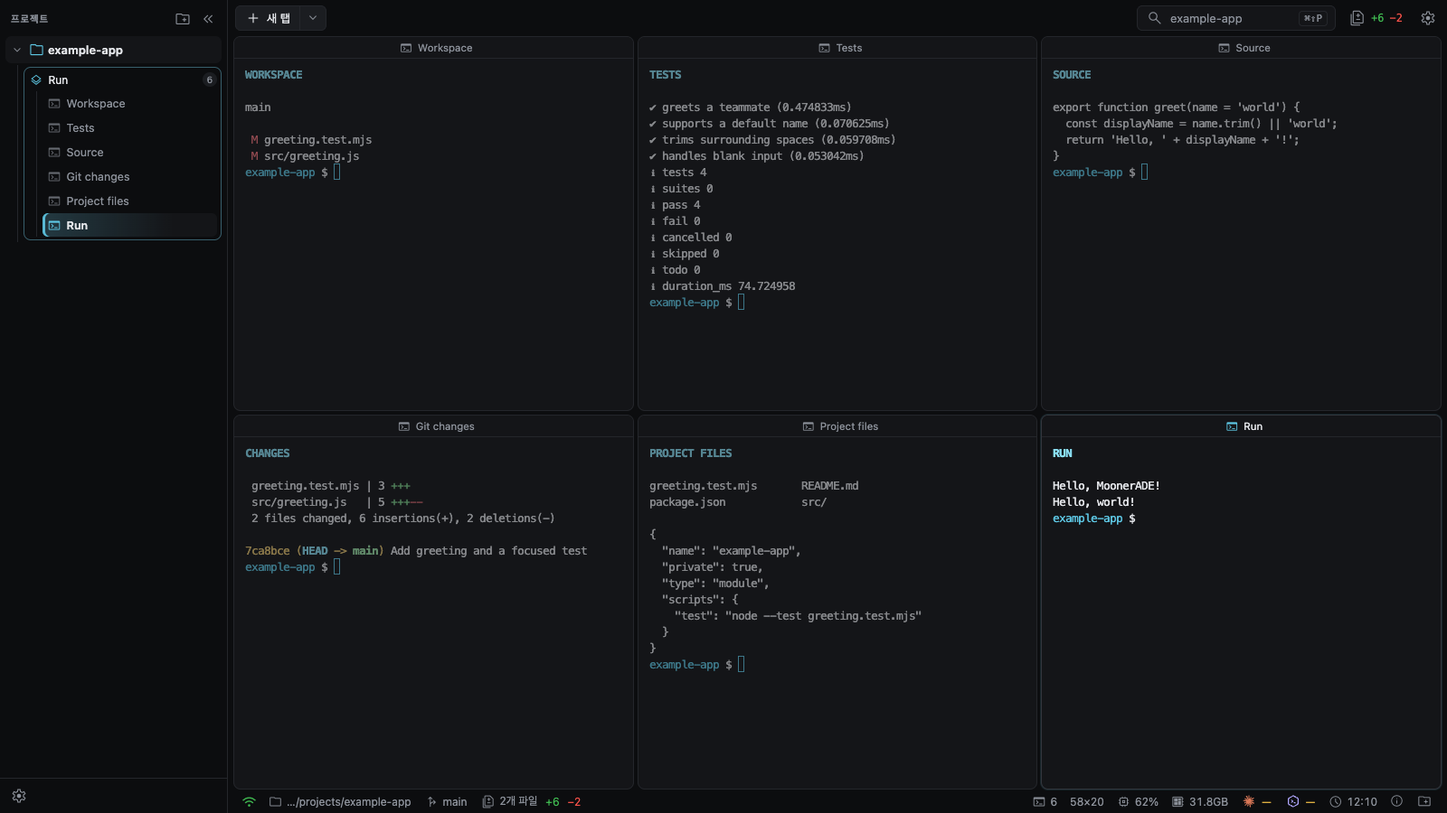
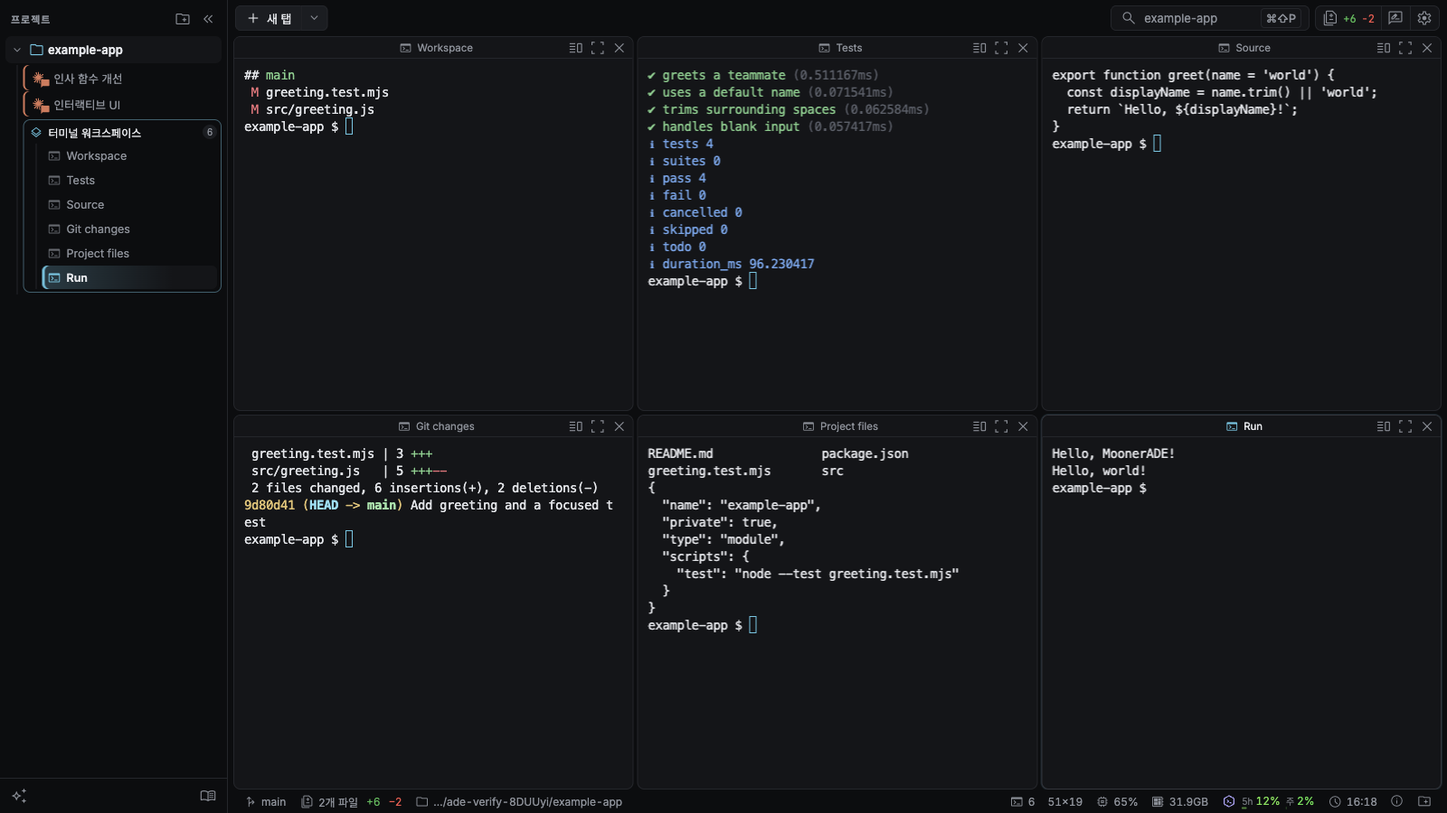
docs: README 최신화 및 화면 이미지 갱신

diff --git a/README.md b/README.md
@@ -1,225 +1,275 @@
-# MoonerADE (무너에이드)
+<p align="center">
+  <img src="apps/desktop/assets/icon.png" width="80" height="80" alt="MoonerADE 아이콘">
+</p>
 
-**Claude Code·Codex·Cursor Agent를 한 창에서 사용하는 개발 워크스페이스.**
+# MoonerADE · 무너에이드
 
-프로젝트마다 흩어져 있던 터미널을 한곳에 모으고, 여러 에이전트가 일하는 모습을 나란히 보면서 바뀐 코드를 바로 확인하세요. 평소 쓰던 CLI와 계정을 그대로 쓰는 macOS·Windows 데스크톱 앱입니다.
+**Claude Code · Codex · Cursor Agent를 한 창에서.**
 
-[설치](#설치) · [주요 기능](#주요-기능) · [사용법](#사용법) · [개발](#개발) · [문서](#문서) · [GPL v3](LICENSE)
+채팅과 터미널로 에이전트에게 일을 맡기고, 여러 프로젝트를 오가며 결과를 확인하는 macOS·Windows 개발 워크스페이스입니다. 컴퓨터에 설치된 공식 CLI와 계정을 그대로 사용합니다.
 
-![MoonerADE의 프로젝트 사이드바와 2 × 3 분할 터미널](docs/images/terminal-workspace.png)
+[설치](#설치) · [사용법](#사용법) · [주요 기능](#주요-기능) · [개발](#개발) · [문서](#문서) · [릴리스](https://github.com/Mooner510/mooner-ade/releases)
 
-*예제 프로젝트를 연 실제 앱 화면입니다. 터미널 출력은 데모 코드와 테스트를 실행한 결과입니다.*
+![프로젝트 사이드바와 채팅에서 에이전트의 작업 과정·결과를 확인하는 MoonerADE](docs/images/chat-workspace.png)
+
+*현재 소스로 촬영한 예제 화면입니다. 대화·사용량·카드 수치는 시연용이며, 터미널 출력은 예제를 실제 실행한 결과입니다.*
 
 ## 설치
 
-명령 한 줄이면 최신 버전을 받아 설치하고 바로 실행합니다. 같은 명령을 다시 실행하면 재설치되고, 그 뒤 업데이트는 앱이 알아서 합니다. 관리자 권한은 필요 없습니다.
+**macOS Apple Silicon**과 **Windows x64**용 앱을 제공합니다. 아래 명령은 최신 릴리스를 설치하고 앱을 실행합니다. 관리자 권한은 필요하지 않습니다.
 
-### macOS (Apple Silicon)
+### macOS
 
-**터미널** 앱을 열고 아래 줄을 붙여 넣으세요.
+터미널에서 실행하세요.
 
 ```sh
 curl -fsSL https://raw.githubusercontent.com/Mooner510/mooner-ade/master/scripts/install-mac.sh | sh
 ```
 
-`/Applications`(쓸 수 없으면 `~/Applications`)에 설치됩니다. 이 방법으로 받으면 "확인되지 않은 개발자" 경고 없이 바로 열립니다.
+설치 위치는 `/Applications/MoonerADE.app`이며, 해당 폴더에 쓸 수 없으면 `~/Applications`를 사용합니다.
 
-### Windows (x64)
+### Windows
 
-시작 메뉴에서 **PowerShell**을 열고 아래 줄을 붙여 넣으세요.
+PowerShell에서 실행하세요.
 
 ```powershell
 irm https://raw.githubusercontent.com/Mooner510/mooner-ade/master/scripts/install-windows.ps1 | iex
 ```
 
-`%LOCALAPPDATA%\Programs\MoonerADE`에 설치되고 시작 메뉴와 바탕 화면에 바로 가기가 생깁니다. SmartScreen 경고도 뜨지 않습니다.
+`%LOCALAPPDATA%\Programs\MoonerADE`에 설치하고 시작 메뉴·바탕 화면에 바로 가기를 만듭니다.
+
+> 설치 명령을 다시 실행하면 기존 앱을 종료하고 교체합니다. 설치 후에는 앱 안의 자동 업데이트를 사용하세요. Intel Mac 등 다른 환경은 [소스에서 실행](#소스에서-실행)을 참고하세요.
+
+### 에이전트 준비
+
+[Git](https://git-scm.com/downloads)과 사용할 에이전트의 공식 CLI를 설치한 뒤 로그인하세요. 에이전트는 하나만 준비해도 됩니다.
+
+| 에이전트 | 설치 안내 | 로그인 명령 |
+|---|---|---|
+| Claude Code | [공식 안내](https://docs.anthropic.com/claude-code) | `claude auth login` |
+| Codex | [공식 안내](https://github.com/openai/codex) | `codex login` |
+| Cursor Agent | [공식 안내](https://cursor.com/docs/cli/overview) | `cursor-agent login` |
+
+채팅은 **설정 → AI 툴 → 각 에이전트 → 채팅 인증**에서 API 키를 사용할 수도 있습니다. 이 설정은 채팅에만 적용되며, 터미널과 상태바 사용량 조회는 CLI 로그인을 사용합니다. 모델 이용 권한과 비용은 각 제공자의 계정·플랜을 따릅니다.
 
 <details>
-<summary>NVIDIA 그래픽카드에서 화면이 뚝뚝 끊길 때 (RTX HDR)</summary>
+<summary>설치 참고 · Windows 화면 끊김 · 삭제</summary>
 
-NVIDIA App의 **RTX HDR**을 켜 두면, NVIDIA 드라이버가 MoonerADE를 게임으로 보고 화면을 그릴 때마다 끼어듭니다. 그러면 애니메이션과 마우스 반응이 초당 20프레임으로 끊기고 CPU를 계속 씁니다. Chrome·Edge·Slack은 NVIDIA가 미리 넣어 둔 프로필로 RTX HDR에서 빠져 있어 같은 PC에서도 멀쩡합니다.
+- **macOS 서명:** 배포 앱은 Apple 공증 없이 ad-hoc 서명됩니다. 설치 스크립트는 앱의 격리 속성을 제거합니다.
+- **Windows ARM:** 제공하는 x64 앱은 Windows의 x64 에뮬레이션을 사용합니다.
+- **NVIDIA RTX HDR:** NVIDIA App의 RTX HDR이 앱에 적용되면 화면이 끊길 수 있습니다. 앱이 감지해 제안하는 **해결**을 누르면 관리자 권한 확인 후 MoonerADE에만 RTX HDR을 끄는 프로필을 추가합니다. 직접 설정하려면 NVIDIA App → 그래픽 → 프로그램 설정에서 MoonerADE의 RTX HDR을 끄세요.
 
-앱은 시작할 때 이 상태를 알아채고 **해결**을 권합니다. 누르면 관리자 권한을 한 번 확인한 뒤, NVIDIA 드라이버에 MoonerADE 전용 설정(RTX HDR 끔) 하나만 추가합니다. 다른 게임과 앱의 RTX HDR은 그대로입니다. 직접 하려면 NVIDIA App › 그래픽 › 프로그램 설정에서 MoonerADE를 추가하고 RTX HDR을 끄세요.
-
-되돌리려면 관리자 PowerShell에서 아래를 실행합니다.
+RTX HDR 프로필을 되돌리려면 관리자 PowerShell에서 실행합니다.
 
 ```powershell
 & "$env:LOCALAPPDATA\Programs\MoonerADE\resources\app\apps\desktop\src\nvidia-profile.ps1" -Exe moonerade.exe -ProfileName MoonerADE -Undo -Result "$env:TEMP\ade-nvidia.txt"
 ```
 
-</details>
+**앱 삭제:** 앱과 백그라운드 작업을 종료한 뒤 macOS는 설치된 `MoonerADE.app`을, Windows는 설치 폴더와 바로 가기를 지우세요. 설정·기록까지 삭제하려면 다음 폴더도 지웁니다. 실제 프로젝트와 CLI 자체 설정은 별도입니다.
 
-### 설치 후 할 일
-
-MoonerADE는 에이전트를 직접 품지 않고, 컴퓨터에 설치된 공식 CLI를 실행합니다. 쓰려는 도구를 설치하고 한 번 로그인해 두세요.
-
-| 준비물 | 설치 | 로그인 |
+| OS | 앱 데이터 | Electron 프로필 |
 |---|---|---|
-| [Git](https://git-scm.com/downloads) | 필수 | — |
-| [Claude Code](https://docs.anthropic.com/claude-code) | 선택 | `claude auth login` |
-| [Codex](https://github.com/openai/codex) | 선택 | `codex login` |
-| [Cursor Agent](https://cursor.com/docs/cli/overview) | 선택 | `cursor-agent login` |
-
-그다음 앱에서 **프로젝트 열기**로 작업 폴더를 고르면 끝입니다. 새 탭 메뉴에서 세 에이전트의 터미널 또는 채팅을 선택할 수 있습니다. 채팅은 공식 CLI의 로그인과 세션을 사용하며, CLI가 지원하지 않는 기능은 제한 이유를 표시합니다. 자세한 범위는 [채팅 검증 안내](docs/VERIFICATION.md#2026-11-10-codexcursor-채팅-확장)를 참고하세요.
-
-<details>
-<summary>삭제하기</summary>
-
-- **macOS:** 앱을 종료하고 `/Applications/MoonerADE.app`을 휴지통으로 옮깁니다. 설정까지 지우려면 `~/Library/Application Support/mooner-ade`와 `~/Library/Application Support/@mooner/ade-desktop`도 지웁니다.
-- **Windows:** 앱을 종료하고 `%LOCALAPPDATA%\Programs\MoonerADE` 폴더와 시작 메뉴·바탕 화면의 `MoonerADE` 바로 가기를 지웁니다. 설정까지 지우려면 `%LOCALAPPDATA%\mooner-ade`와 `%APPDATA%\@mooner\ade-desktop`도 지웁니다.
+| macOS | `~/Library/Application Support/mooner-ade` | `~/Library/Application Support/@mooner/ade-desktop` |
+| Windows | `%LOCALAPPDATA%\mooner-ade` | `%APPDATA%\@mooner\ade-desktop` |
 
 </details>
-
-<details>
-<summary>Intel Mac, Windows ARM 등 다른 환경</summary>
-
-릴리스는 Apple Silicon Mac과 Windows x64용만 만듭니다. Windows ARM은 x64 앱이 에뮬레이션으로 실행됩니다. 그 밖의 환경은 아래 [소스에서 실행](#소스에서-실행)을 따르세요.
-
-</details>
-
-## 주요 기능
-
-| 기능 | 할 수 있는 일 |
-|---|---|
-| **여러 프로젝트, 한 창** | 프로젝트마다 탭과 터미널을 그대로 둔 채 오가며 작업 |
-| **자유로운 터미널 분할** | 좌우·상하 분할, 크기 조절, 최대화, 2 × 3 그리드 한 번에 만들기 |
-| **Claude Code · Codex** | 공식 CLI를 실행하고 질문·승인·완료 상태를 한눈에 확인 |
-| **다음 요청 예약** | Claude가 일하는 동안 다음 요청을 적어 두면 끝나자마자 전송 |
-| **Chat 탭** | Claude Code·Codex·Cursor Agent를 터미널 대신 채팅 화면으로 사용. 질문 카드, 계획 검토, 서브에이전트 카드, 이미지 첨부, `@` 파일 언급, 이전 대화 불러오기. 지원 범위는 CLI마다 다름 ([채팅 기능 정리](CHAT_MODE_FEATURES.md)) |
-| **인터랙티브 UI** | 채팅에서 에이전트가 답변 안에 차트·상태 카드·입력 폼과 샌드박스 미리보기를 그림 (설정 → AI 툴 → Claude Code, 기본 켜짐) |
-| **플러그인** | 승인한 플러그인으로 터미널 명령·에이전트 도구·작업공간을 더함. 앱에 든 에이전트 버스는 채팅 에이전트끼리 메시지를 주고받음 ([플러그인](docs/PLUGINS.md), [에이전트 버스](docs/AGENT_BUS.md)) |
-| **피드백 요청** | 앱 화면을 캡쳐하고 글로 정리해 개선 요청을 보냄. AI·에이전트가 쓴 초안은 사람이 열어 검토한 뒤에만 제출 |
-| **변경사항 Diff** | 바뀐 파일과 추가·삭제 줄 수, 코드 비교를 터미널 옆에서 확인 |
-| **작업 환경 유지** | 화면 배치 복원, 테마·글꼴·알림·단축키 설정 |
-| **저장소별 worktree** | 여러 저장소가 담긴 폴더에서 저장소마다 작업 경로를 나누고 fast-forward로 합치기 |
-| **WakaTime 기록** | 앱 사용 시간과 에이전트 작업 시간을 WakaTime에 기록 (설정 → WakaTime) |
-| **자동 업데이트** | 새 버전을 받아 다시 시작해도 실행 중인 터미널과 에이전트 작업은 그대로 유지 |
-
-### 터미널 옆에서 바로 보는 Diff
-
-터미널을 그대로 둔 채 Diff 패널을 열어 파일별 변경을 확인합니다. 크게 보고 싶으면 Diff 탭으로 펼치면 됩니다. 커밋은 터미널이나 에이전트에게 맡깁니다.
-
-![터미널의 테스트 결과와 Git 변경사항 Diff를 함께 확인하는 MoonerADE](docs/images/git-diff.png)
 
 ## 사용법
 
-1. **프로젝트를 엽니다.** 사이드바에서 프로젝트를 추가하고 작업할 탭을 고릅니다.
-2. **터미널을 띄웁니다.** 새 탭 메뉴에서 셸·Claude Code·Codex를 고르거나 직접 명령을 입력합니다. 분할 버튼이나 명령 팔레트로 원하는 배치를 만듭니다.
-3. **결과를 확인합니다.** 질문이나 승인을 기다리는 터미널로 이동하고, 오른쪽 Diff 패널에서 바뀐 코드를 검토합니다.
+1. **프로젝트 열기:** 사이드바에서 작업 폴더를 추가합니다. 첫 실행의 둘러보기에서 기본 조작을 연습할 수 있습니다.
+2. **에이전트 시작:** 새 탭에서 **Chat** 또는 **CLI** 모드와 에이전트를 고릅니다. 일반 터미널도 열 수 있습니다.
+3. **작업 확인:** 채팅의 도구·질문·승인 카드를 확인하거나, 여러 칸으로 분할해 에이전트와 로그를 나란히 봅니다. 바뀐 코드는 상단 **변경사항 Diff**에서 검토합니다.
 
-열어 둔 프로젝트와 배치는 자동으로 저장됩니다. 창을 새로고침하면 실행 중이던 터미널에 다시 붙고, 앱을 완전히 껐다 켜면 저장된 배치에 새 셸을 엽니다.
+프로젝트 목록·탭·화면 배치는 자동 저장됩니다. 둘러보기는 사이드바 아래 책 버튼으로 다시 열 수 있습니다.
 
 ### 자주 쓰는 단축키
 
-`mod`는 macOS에서 ⌘, Windows에서 Ctrl입니다. 그 밖의 Ctrl 조합은 터미널 안의 셸과 CLI로 그대로 전달됩니다.
+`mod`는 macOS의 ⌘, Windows의 Ctrl입니다. 설정에서 단축키를 바꿀 수 있습니다.
 
 | 단축키 | 동작 |
 |---|---|
 | `mod+Alt+O` | 프로젝트 열기 |
-| `mod+Shift+T` / `Alt+T` | 새 터미널 탭 |
-| `mod+Shift+N` | 새 탭에서 실행할 CLI 고르기 |
-| `mod+Shift+P` / `F1` | 명령 팔레트 (분할, 2 × 3 그리드 등) |
-| `mod+Shift+Enter` | pane 최대화 켜기/끄기 |
+| `mod+Shift+T` | 새 탭 |
+| `mod+Shift+N` | 새 탭에서 실행할 도구 고르기 |
+| `mod+Shift+P` / `F1` | 명령 팔레트 |
+| `Ctrl+D` / `Ctrl+Shift+D` | 터미널 좌우 / 상하 분할 |
+| `mod+Shift+Enter` | 현재 칸 최대화 / 복원 |
 | `mod+Shift+G` | 변경사항 Diff 패널 |
-| `mod+Alt+F` | 피드백 요청 패널 |
-| `mod+Alt+Shift+F` | 피드백용 화면 캡쳐 |
 | `mod+,` | 설정 |
 
-전체 단축키와 데이터 복구 방법은 [사용 안내](docs/LOCAL_IDE.md)에 있습니다.
+전체 단축키와 세션 복구 방법은 [사용 안내](docs/LOCAL_IDE.md)를 참고하세요.
 
-### Claude가 일하는 동안 다음 요청 예약하기
+## 주요 기능
 
-Claude가 작업 중일 때 Claude Code 입력란에 다음 요청을 평소처럼 쓰고 **Tab**을 누르면 예약됩니다(입력란은 비워집니다). 지금 작업이 끝나면 터미널마다 순서대로 자동 전송하고, 목록에서 수정(연필)·취소(X)할 수 있습니다. 작업 중이 아닐 때나 `/`·`@`로 시작하는 입력에서는 Tab이 평소대로 Claude에 전달되고, Codex와 일반 셸의 Tab도 그대로입니다. **Claude Code 2.1.303 이상**에서, ADE에서 새로 연 터미널부터 동작합니다.
+### 에이전트의 작업을 읽기 쉬운 채팅으로
+
+명령 실행과 파일 변경을 접을 수 있는 카드로 보여 주고, 질문·승인·계획 검토는 화면에서 답할 수 있습니다. 서브에이전트의 작업과 모델·Effort도 확인할 수 있습니다. 이미지 붙여넣기와 파일 끌어놓기, `@` 파일 언급, `/resume`으로 이전 대화 불러오기도 지원합니다.
+
+입력창에서 권한 모드·모델·Effort를 고르고, 상태 줄에서 컨텍스트·토큰·비용을 확인하세요. **새 채팅은 프로젝트에서 마지막으로 고른 설정을 이어받습니다.** 제공되는 항목은 에이전트와 CLI 버전에 따라 다릅니다.
 
 <details>
-<summary>완료 감지, 호환 조건과 예약 유지 범위</summary>
+<summary>에이전트별 채팅 지원 범위</summary>
 
-자동 전송은 Claude의 OSC 7501(없으면 OSC 9;4) 작업 상태 신호와 빈 입력란을 함께 확인하고, 서버에서 Claude 프로세스와 화면 출력 순번을 다시 검증한다. 질문·승인 화면이나 작성 중인 입력이 있으면 기다린다. 구버전, `terminalProgressBarEnabled`가 꺼진 세션, SSH 세션, 신호가 전달되지 않는 tmux 환경에서는 동작하지 않는다. (SSH 원격 tmux의 작업 중·완료 표시는 [docs/LOCAL_IDE.md](docs/LOCAL_IDE.md)의 tmux 설정 참고) 기존 터미널에는 새 환경 설정이 적용되지 않으므로 새 터미널을 열어야 한다.
+| 기능 | Claude Code | Codex | Cursor Agent |
+|---|---|---|---|
+| 채팅·이미지·파일 첨부 | 지원 | 지원 | 지원 |
+| 응답 중 추가 지시 | 지원 | 지원 | 응답 후 대기열 전송 |
+| 과거 대화에서 분기·되돌리기 | 지원 | 지원 | 미지원 |
+| 토큰 / 비용 표시 | 지원 / 지원 | 지원 / 미제공 | 미제공 / 미제공 |
+| 프롬프트 캐시 타이머·`/stats` | 지원 | 미지원 | 미지원 |
+| 채팅 → 터미널 전환 | 지원 | 지원 | 지원 |
+| 터미널 → 채팅 전환 | 유휴 로컬 세션에서 지원 | 미지원 | 미지원 |
 
-예약은 일시정지하지 않는다. 중단(Esc/Ctrl+C)이나 오류로 작업이 끝나도, 재접속 후 Claude가 이미 idle이어도 다음 예약을 보낸다. 서버가 전송을 거절하면 다음 갱신 때 다시 시도한다. 예약은 메모리에만 보관하므로 앱 새로고침·종료·pane 재생성 시 사라진다. 텍스트만 지원하며 이미지 첨부는 예약하지 않는다.
+이미지 입력·세션 복원 등은 CLI와 모델이 지원하는 범위에서 동작합니다. 사용할 수 없는 기능은 화면에서 이유를 안내합니다. 자세한 동작은 [채팅 기능 정리](CHAT_MODE_FEATURES.md), 확인한 범위는 [검증 상태](docs/VERIFICATION.md)를 참고하세요.
 
 </details>
 
-### 자동 업데이트
+### 답변 안에서 선택하고 조작하는 인터랙티브 UI
 
-설치한 앱은 시작 5초 뒤와 10분마다 새 버전을 확인합니다. 새 버전이 있으면 받아서 교체한 뒤 다시 시작하는데, **그동안 터미널은 꺼지지 않습니다.** 앱이 다시 뜨면 열려 있던 터미널에 다시 붙어 그사이 출력까지 보여 주므로, 에이전트가 일하는 중에도 걱정 없이 업데이트됩니다.
+에이전트가 답변에 상태 카드·차트·입력 폼을 넣고, 계산기나 미리보기를 보여 줄 수 있습니다. 폼에서 고른 내용을 다음 요청으로 보내거나 입력창에 채웁니다. 미리보기 코드는 격리된 샌드박스에서 실행됩니다.
+
+![채팅 답변 안의 상태 카드와 다음 작업 선택 폼](docs/images/interactive-ui.png)
+
+**설정 → AI 툴 → Claude Code → 인터랙티브 UI**에서 켜고 끌 수 있습니다. 기본으로 켜져 있으며, 변경은 새 채팅부터 적용됩니다.
+
+### 여러 프로젝트와 터미널을 한 화면에
+
+프로젝트마다 탭과 배치를 유지하고, 좌우·상하 분할과 크기 조절·최대화를 지원합니다. 명령 팔레트에서 **2 × 3 그리드**도 한 번에 만들 수 있습니다. 에이전트의 질문·승인·완료 상태는 사이드바와 알림으로 확인합니다.
+
+![현재 UI에서 테스트·소스·Git 상태·실행 결과를 나란히 보는 2 × 3 터미널](docs/images/terminal-workspace.png)
+
+### 바뀐 코드를 바로 검토
+
+오른쪽 Diff 패널에서 변경 파일과 추가·삭제 줄을 확인하고, 큰 화면에서 통합 또는 좌우 비교로 펼쳐 볼 수 있습니다. 여러 저장소가 있는 프로젝트는 비교할 저장소를 선택합니다.
 
 <details>
-<summary>자세한 동작</summary>
+<summary>채팅과 Diff를 함께 보는 화면</summary>
 
-- 새 버전이 없으면 작은 API 호출 한 번으로 끝나고 디스크에는 아무것도 쓰지 않습니다. 코드만 바뀐 릴리스는 그 부분(약 8MB)만 받습니다.
-- 앱이 5분 안에 다시 뜨지 않으면 남은 터미널을 정리합니다. 앱을 직접 종료하면 터미널도 함께 종료됩니다.
-- 버튼은 "종료할 때 업데이트", "지금 업데이트", "나중에"입니다. 종료할 때는 지금 받아 두고 다음에 앱을 끌 때 설치합니다. 지금 업데이트는 진행 중인 작업을 보여 주고, 중단해도 괜찮으면 바로 설치합니다. "나중에"를 고른 버전은 앱을 다시 켤 때까지 묻지 않습니다.
-- 설정에서 업데이트를 직접 확인하거나, 받아 둔 업데이트를 지금 재시작·취소할 수 있습니다.
-- 소스에서 실행한 앱(`pnpm dev`, `pnpm start`)은 자동 업데이트하지 않습니다.
-- macOS 앱은 Apple 공증 없이 ad-hoc 서명되어 있고, 스스로 업데이트하려면 쓰기 가능한 폴더(예: `/Applications`)에 있어야 합니다.
+![채팅 결과 옆 Diff 패널에서 greeting.js의 변경을 검토하는 화면](docs/images/git-diff.png)
+
+</details>
+
+Diff는 **읽기 전용**입니다. 파일 편집·검색·스테이징·커밋은 터미널이나 에이전트를 사용하세요. 저장소별 worktree를 켜면 작업 경로를 나눌 수 있으며, 원본으로 통합할 때는 커밋 후 fast-forward만 지원합니다.
+
+### 작업을 이어 가는 도구
+
+| 기능 | 사용 방법 |
+|---|---|
+| **사용량·캐시** | 상태바에서 제공자별 사용 한도를 확인하고, Claude 채팅·터미널에서 프롬프트 캐시 타이머 확인 |
+| **세션 통계** | Claude 채팅의 `/stats`에서 컨텍스트 변화·턴 시작점·턴별 비용 추정치 확인 |
+| **플러그인·에이전트 버스** | 승인한 플러그인으로 도구를 추가하고, 내장 버스로 ADE의 채팅 에이전트끼리 메시지 교환 |
+| **피드백 요청** | `mod+Alt+F`로 열어 화면 캡처·주석과 함께 개선 요청 작성. AI 초안도 사람이 검토한 뒤 제출 |
+| **WakaTime** | 설정 → WakaTime에서 앱 사용 시간·에이전트 작업 시간 기록 |
+| **화면 맞춤** | 테마·강조 색·글꼴·상태바·알림 설정 |
+| **변경 내역** | 사이드바 아래 변경 내역에서 버전별 새 기능·수정 사항 확인 |
+
+### Claude가 일하는 동안 다음 요청 예약하기
+
+**터미널의 Claude Code가 작업 중일 때** 다음 요청을 입력하고 **Tab**을 누르세요. 입력을 비워 예약 목록에 넣고, 현재 작업이 끝나면 순서대로 보냅니다. 목록에서 수정·취소할 수 있습니다.
+
+Claude Code **2.1.303 이상**과 ADE에서 새로 연 터미널이 필요합니다. 작업 중이 아니거나 `/`·`@`로 시작하는 입력, Codex와 일반 셸의 Tab은 평소대로 동작합니다.
+
+<details>
+<summary>예약의 완료 감지·호환 조건·유지 범위</summary>
+
+- Claude의 OSC 7501(없으면 OSC 9;4) 상태 신호와 빈 입력란을 확인하고, 서버에서 Claude 프로세스·화면 출력 순번을 다시 검증합니다. 질문·승인 화면이나 작성 중인 입력이 있으면 기다립니다.
+- 구버전, `terminalProgressBarEnabled`가 꺼진 세션, SSH 세션, 신호가 전달되지 않는 tmux 환경에서는 동작하지 않습니다. 기존 터미널에는 새 환경 설정이 적용되지 않으므로 새 터미널을 열어야 합니다. 원격 tmux의 상태 표시는 [사용 안내](docs/LOCAL_IDE.md)를 참고하세요.
+- **Esc·Ctrl+C 중단이나 오류도 현재 작업의 종료로 봅니다.** 재연결 후 이미 유휴 상태여도 다음 예약을 보내며, 전송을 거절당하면 다음 갱신 때 다시 시도합니다. 예약을 멈추려면 목록에서 취소하세요.
+- 예약은 **텍스트만, 메모리에만** 보관합니다. 이미지 첨부는 예약하지 않으며, 앱 새로고침·종료·칸 재생성 시 사라집니다.
+
+</details>
+
+### 자동 업데이트와 백그라운드 실행
+
+설치한 앱은 시작 5초 뒤와 10분마다 업데이트를 확인합니다. 새 버전에서 **종료할 때 업데이트**, **지금 업데이트**, **나중에** 중 선택할 수 있고, 설정에서도 직접 확인할 수 있습니다.
+
+업데이트 재시작 동안 터미널·채팅 작업을 유지하고 새 창에 다시 연결합니다. 앱을 닫을 때는 **백그라운드로 남기기**를 선택해 작업을 이어 가거나, **종료**로 함께 끝낼 수 있습니다.
+
+<details>
+<summary>복원 조건과 예외</summary>
+
+- 업데이트 중 유지되는 프로세스는 별도 PTY 호스트가 관리합니다. 앱이 5분 안에 다시 뜨지 않으면 정리합니다. 백그라운드 유지는 다음 실행까지 계속됩니다.
+- 호스트를 시작하지 못했거나 이전 호스트가 채팅 유지 기능을 지원하지 않으면 작업이 끊길 수 있습니다. 앱은 실제 유지 가능 범위를 확인해 종료·업데이트 대화상자에서 안내합니다.
+- 일반 새로고침은 실행 중인 터미널에 다시 연결합니다. 프로세스까지 종료했다면 저장된 배치에 새 셸을 열고, 추적한 Claude·Codex 세션을 복구합니다. 채팅 기록은 다시 열어 이어 갈 수 있습니다.
+- 소스 실행(`pnpm start`, `pnpm dev`)은 자동 업데이트하지 않습니다. 설치 앱은 자신을 교체할 수 있는 쓰기 가능한 폴더에 있어야 합니다.
 
 </details>
 
 ## 로컬 실행과 데이터
 
-MoonerADE는 내 컴퓨터 한 대에서, 나 혼자 쓰는 것을 전제로 동작합니다. 공식 CLI의 계정과 권한 설정을 그대로 쓰고, 터미널은 앱을 실행한 사용자의 셸 권한을 가집니다. 모델을 쓰려면 해당 제공자의 이용 권한이 필요합니다.
+MoonerADE는 **내 컴퓨터에서 혼자 사용하는 로컬 앱**입니다. 모델 호출·로그인·도구 실행은 공식 CLI가 맡고, 터미널은 앱을 실행한 사용자의 셸 권한으로 동작합니다. 프로젝트 폴더를 여는 것이 에이전트의 파일 접근을 격리하지는 않습니다.
 
-프로젝트 목록·배치·설정과 터미널별 에이전트 세션 기록은 OS별 앱 데이터 폴더에 저장됩니다. 경로는 [환경 변수](ENVIRONMENT_VARIABLES.md), 접속 토큰과 데이터 취급은 [보안 경계](docs/SECURITY_REVIEW.md)에 정리되어 있습니다.
+프로젝트 목록·배치·설정·채팅 기록은 앱 데이터 폴더에 저장됩니다. 데이터 경로와 재정의 방법은 [환경 변수](ENVIRONMENT_VARIABLES.md), 인증·권한의 범위는 [보안 경계](docs/SECURITY_REVIEW.md)를 참고하세요.
 
 ## 개발
 
 ### 소스에서 실행
 
-[Node.js](https://nodejs.org/) **24.21.0 이상**, pnpm **11.27.1**(`corepack enable`로 켜짐), Git이 필요합니다. `node-pty`를 빌드하느라 OS의 네이티브 빌드 도구(macOS는 Xcode Command Line Tools, Windows는 Visual Studio Build Tools)가 필요할 수 있습니다.
+Node.js **24.21.0 이상**, pnpm **11.27.1**, Git이 필요합니다. `node-pty` 빌드를 위해 macOS의 Xcode Command Line Tools 또는 Windows의 Visual Studio Build Tools가 필요할 수 있습니다.
 
 ```sh
 git clone https://github.com/Mooner510/mooner-ade.git
 cd mooner-ade
 pnpm install --frozen-lockfile
-pnpm start   # 웹 UI를 빌드하고 앱 실행
-pnpm dev     # 개발 모드: 웹 HMR + 서버 변경 시 재시작
+pnpm start
 ```
 
-개발 모드에서도 서버가 바뀌는 동안 PTY 호스트가 터미널을 붙잡고 있습니다. Electron 메인 코드와 PTY 호스트를 고쳤다면 앱을 직접 다시 시작하세요.
+개발 모드는 `pnpm dev`로 실행합니다. 웹 HMR과 서버 자동 재시작을 지원하며, 서버가 바뀌는 동안 터미널은 별도 PTY 호스트가 유지합니다. Electron 메인 코드나 PTY 호스트를 고쳤다면 앱을 직접 다시 시작하세요.
 
 <details>
 <summary>검사 명령과 프로젝트 구조</summary>
 
 ```sh
-pnpm typecheck    # 웹 타입 검사
-pnpm check        # 웹 타입 검사 + Node 테스트
-pnpm e2e          # 빌드 없이 Vite 개발 서버로 띄운 서버와 실제 Chrome/PTY로 UI 검증, 모델 호출 없음
-pnpm audit        # lockfile 의존성 보안 검사
+pnpm typecheck   # 웹 타입 검사
+pnpm test        # Node 테스트
+pnpm check       # 웹 타입 검사 + Node 테스트
+pnpm e2e         # Vite 개발 서버 + 실제 Chrome/PTY 검증, 모델 호출 없음
+pnpm audit       # lockfile 의존성 보안 검사
 ```
 
 | 경로 | 역할 |
 |---|---|
-| `apps/desktop` | Electron 셸과 로컬 서버 실행 |
-| `apps/web` | React UI, 터미널, 읽기 전용 Monaco Diff |
-| `apps/local-server` | 루프백 HTTP/WebSocket, 프로젝트·Git·PTY·세션 복구 API |
+| `apps/desktop` | Electron 셸·업데이트·로컬 서버 실행 |
+| `apps/web` | React UI·터미널·채팅·읽기 전용 Monaco Diff |
+| `apps/local-server` | 로컬 HTTP/WebSocket·프로젝트·Git·PTY·채팅 API |
+| `scripts/verify` | 격리된 UI·에이전트 검증 도구 |
 
-자세한 구조는 [아키텍처](docs/ARCHITECTURE.md)를 참고하세요. 기여는 `feature/*` → `master` PR과 `.github/workflows/ci.yml`의 재사용 CI를 따릅니다. OS별 검증 범위는 [검증 상태](docs/VERIFICATION.md)에 있습니다.
+기여는 `feature/*` → `master` PR을 사용합니다. **CI/CD workflow 파일은 인프라팀이 관리합니다.** 테스트 절차는 [테스트 실행 안내](docs/TESTING_GUIDE.md), OS별 확인 범위는 [검증 상태](docs/VERIFICATION.md)를 참고하세요.
 
 </details>
 
 <details>
 <summary>앱 빌드와 릴리스</summary>
 
-`pnpm package`는 현재 OS용 앱을 만듭니다. macOS는 `apps/desktop/dist/MoonerADE.app`, Windows는 `apps/desktop/dist/MoonerADE-win32-<arch>/MoonerADE.exe`가 생깁니다. Node 런타임과 네이티브 PTY 모듈까지 들어 있으므로 Windows 빌드는 Windows에서, macOS 빌드는 macOS에서 만들어야 합니다.
+`pnpm package`는 현재 OS용 앱을 만듭니다.
 
-릴리스는 `package.json`의 `version`을 올려 커밋한 뒤 아무 컴퓨터에서 `pnpm release`를 한 번 실행하면 됩니다. 현재 커밋에 `v<version>` 태그를 달아 푸시하면 `Release` 워크플로가 GitHub 릴리스를 만들고, macOS(arm64)와 Windows(x64) 빌드(`MoonerADE-darwin-arm64.zip`, `MoonerADE-win32-x64.zip`)를 올립니다. 설치 스크립트와 앱의 자동 업데이트가 이 파일을 받습니다.
+| OS | 빌드 결과 |
+|---|---|
+| macOS | `apps/desktop/dist/MoonerADE.app` |
+| Windows | `apps/desktop/dist/MoonerADE-win32-<arch>/MoonerADE.exe` |
 
-- GitHub의 Actions 탭에서 태그를 넣어 직접 실행할 수도 있습니다. 이미 있는 태그를 넣으면 그 릴리스를 다시 빌드합니다.
-- 현재 OS용 빌드만 직접 올리려면 `pnpm release:local`을 실행합니다.
+Node 런타임과 네이티브 PTY 모듈이 포함되므로 각 OS에서 빌드해야 합니다.
+
+정식 릴리스는 `package.json` 버전과 앱 변경 내역(`apps/web/src/changelog.json`)을 함께 갱신해 `master`에 반영한 뒤 진행합니다. 작업 트리가 깨끗하고 현재 커밋이 `origin/master`와 같을 때 `pnpm release`를 실행하면 `v<version>` 태그를 푸시합니다. 기존 Release workflow가 macOS arm64·Windows x64 빌드를 릴리스에 올리며, 설치 스크립트와 자동 업데이트가 이 자산을 받습니다.
+
+현재 OS 빌드만 직접 올리는 명령은 `pnpm release:local`입니다. 릴리스 자동화 변경은 인프라팀에 요청하세요.
 
 </details>
 
 ## 문서
 
-- [로컬 실행·단축키·데이터 복구](docs/LOCAL_IDE.md)
-- [검증 결과와 확인 범위](docs/VERIFICATION.md) · [테스트 실행 안내](docs/TESTING_GUIDE.md) · [Full E2E 인수인계](docs/E2E_HANDOFF.md) · [실제 AI 에이전트가 필요한 테스트](docs/tests/261113_1021_실제AI체크리스트/GUIDE.md)
-- [아키텍처](docs/ARCHITECTURE.md) · [채팅 기능 정리](CHAT_MODE_FEATURES.md)
-- [플러그인](docs/PLUGINS.md) · [에이전트 버스](docs/AGENT_BUS.md)
-- [환경 변수](ENVIRONMENT_VARIABLES.md) · [보안 경계](docs/SECURITY_REVIEW.md)
+| 찾는 내용 | 문서 |
+|---|---|
+| 단축키·세션 복구·worktree | [사용 안내](docs/LOCAL_IDE.md) |
+| 채팅·첨부·모델·권한 모드 | [채팅 기능 정리](CHAT_MODE_FEATURES.md) |
+| 확장 기능·에이전트 간 통신 | [플러그인](docs/PLUGINS.md) · [에이전트 버스](docs/AGENT_BUS.md) |
+| 데이터 경로·설정·권한 | [환경 변수](ENVIRONMENT_VARIABLES.md) · [보안 경계](docs/SECURITY_REVIEW.md) |
+| 내부 구조 | [아키텍처](docs/ARCHITECTURE.md) |
+| 테스트 방법·검증 범위 | [테스트 실행 안내](docs/TESTING_GUIDE.md) · [검증 상태](docs/VERIFICATION.md) · [E2E 인수인계](docs/E2E_HANDOFF.md) |
+| 실제 AI가 필요한 확인 | [실제 AI 체크리스트](docs/tests/261113_1021_실제AI체크리스트/GUIDE.md) |
 
 ## 라이선스
 
-Copyright (C) 2026 mooner-ade contributors.
+Copyright (C) 2026 mooner-ade contributors. **GNU General Public License v3.0 only (`GPL-3.0-only`)**로 배포합니다. 사용·수정·재배포 조건과 무보증 조항은 [LICENSE](LICENSE)를 참고하세요.
 
-이 프로젝트는 **GNU General Public License version 3 only (`GPL-3.0-only`)**로 배포합니다. GPL v3 조건에 따라 사용·수정·재배포할 수 있으며, 어떠한 보증도 제공하지 않습니다. 전문은 [LICENSE](LICENSE)를 참고하세요. 포함하거나 사용하는 외부 라이브러리·아이콘·폰트에는 각 저작권자와 라이선스의 고지가 적용됩니다. 번들 글꼴(Inter, Noto Sans KR, JetBrains Mono)은 SIL OFL 1.1이며 라이선스 전문은 빌드 결과의 `licenses/`에 들어 있습니다.
+외부 라이브러리·아이콘·폰트에는 각 저작권과 라이선스가 적용됩니다. 번들 글꼴 Inter·Noto Sans KR·JetBrains Mono는 SIL OFL 1.1이며, 전문은 빌드 결과의 `licenses/`에 포함됩니다.
